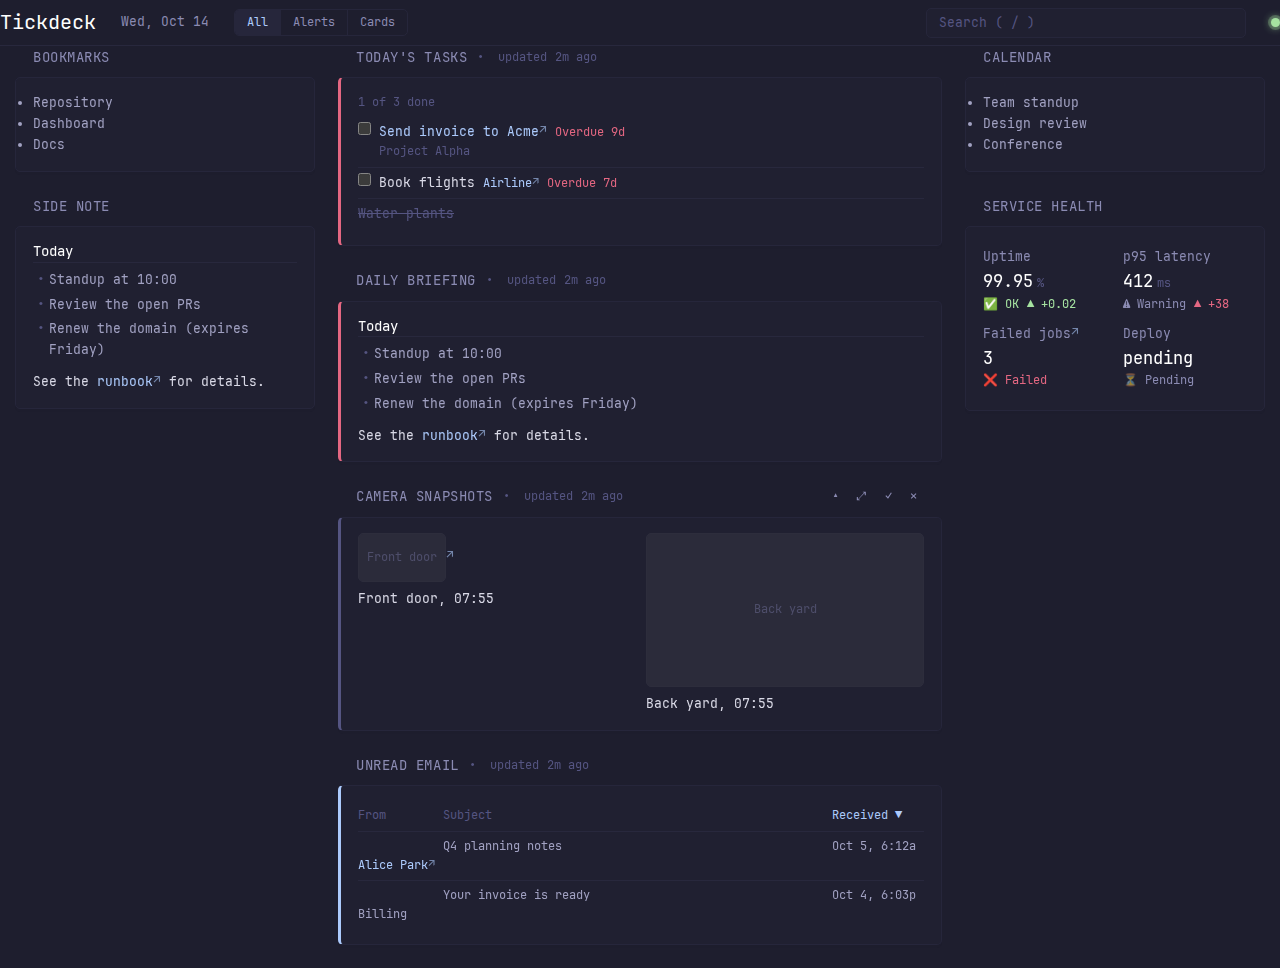
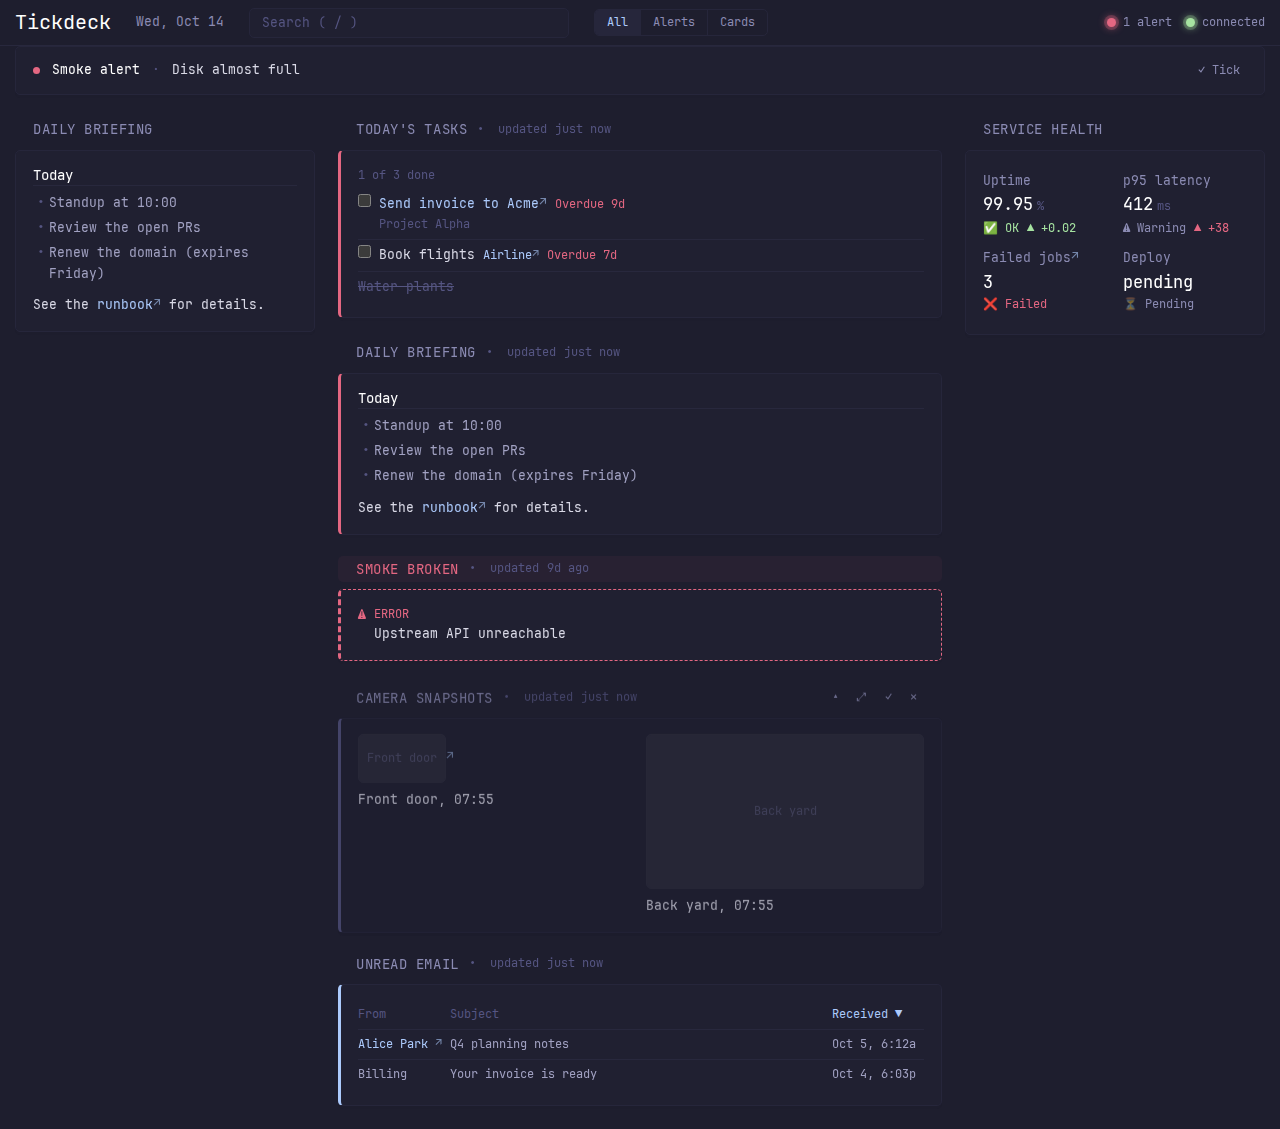
03-visual-port: post-review fixes — header padding/layout, table cell alignment and truncation

diff --git a/tests/smoke/smoke.spec.ts b/tests/smoke/smoke.spec.ts
@@ -224,6 +224,64 @@ test.describe('populated feed', () => {
     expect(left).toBeLessThan(right);
   });
 
+  test('header has page padding and fits the viewport at 1280 (post-review)', async ({ page }) => {
+    await page.setViewportSize({ width: 1280, height: 900 });
+    await page.goto(h!.server.url);
+    const brand = (await page.locator('.header__brand').boundingBox())!;
+    expect(brand.x).toBeGreaterThanOrEqual(12);
+    const dot = (await page.getByRole('img', { name: 'Connected' }).boundingBox())!;
+    expect(dot.x + dot.width).toBeLessThanOrEqual(1280 - 12);
+    await expect(page.locator('.header__status')).toContainText('connected');
+  });
+
+  test('header fits the viewport at 360 with a gutter (post-review)', async ({ page }) => {
+    await page.setViewportSize({ width: 360, height: 800 });
+    await page.goto(h!.server.url);
+    const boxes = await page.locator('.header, .header *').evaluateAll((els) =>
+      els.map((e) => {
+        const r = e.getBoundingClientRect();
+        return { cls: String(e.getAttribute('class') ?? ''), left: r.left, right: r.right, w: r.width };
+      }),
+    );
+    for (const b of boxes.filter((x) => x.w > 0 && !/^header$/.test(String(x.cls)))) {
+      expect(b.left, String(b.cls)).toBeGreaterThanOrEqual(0);
+      expect(b.right, String(b.cls)).toBeLessThanOrEqual(360);
+    }
+    expect((await page.locator('.header__brand').boundingBox())!.x).toBeGreaterThanOrEqual(12);
+    expect((await page.locator('.search-box input').boundingBox())!.x).toBeGreaterThanOrEqual(12);
+  });
+
+  test('compact table: one-line truncating cells, aligned, wrap scrolls in-card (post-review)', async ({ page }) => {
+    for (const width of [1280, 360]) {
+      await page.setViewportSize({ width, height: 900 });
+      await page.goto(h!.server.url);
+      const expanders = page.getByRole('button', { name: /^Expand/ });
+      while (await expanders.count()) await expanders.first().click();
+      const card = page.locator('[data-card-id="table"]').first();
+      await expect(card.locator('.cell-truncate').first()).toHaveCSS('white-space', 'nowrap');
+      await expect(card.locator('.tbl-wrap')).toHaveCSS('overflow-x', 'auto');
+      const rows = await card.locator('tbody tr').evaluateAll((trs) =>
+        trs.map((tr) => [...tr.querySelectorAll('td')].map((td) => td.getBoundingClientRect().height)),
+      );
+      expect(rows.length).toBeGreaterThan(0);
+      for (const r of rows) expect(Math.max(...r) - Math.min(...r), `${width}`).toBeLessThan(2);
+      const links = card.locator('td a.card-link:not(.tbl-rowlink *)');
+      if (await links.count()) {
+        const cell = (await links.first().locator('xpath=ancestor::td').boundingBox())!;
+        const text = (await links.first().boundingBox())!;
+        expect(Math.abs(text.y + text.height / 2 - (cell.y + cell.height / 2))).toBeLessThan(4);
+      }
+      const box = (await card.locator('.tbl-wrap').boundingBox())!;
+      expect(box.x + box.width).toBeLessThanOrEqual(width);
+      const cardBox = (await card.boundingBox())!;
+      expect(box.x + box.width).toBeLessThanOrEqual(cardBox.x + cardBox.width + 1);
+      if (process.env['TICKDECK_SHOTS']) {
+        await page.evaluate('window.scrollTo(0, 0)');
+        await page.screenshot({ path: join(process.env['TICKDECK_SHOTS'], `app-${width}.png`), fullPage: true });
+      }
+    }
+  });
+
   test('reduced motion disables animation (R12)', async ({ page }) => {
     await page.emulateMedia({ reducedMotion: 'reduce' });
     await page.goto(h!.server.url);

diff --git a/ui/src/styles/site.css b/ui/src/styles/site.css
@@ -38,10 +38,12 @@ button, input { font: inherit; color: inherit; }
 .header {
   display: flex; align-items: center; gap: var(--header-gap);
   min-height: var(--header-height);
+  width: 100%; max-width: 160rem; margin: 0 auto;
+  padding: 0 var(--content-bounds-padding);
   border-bottom: 1px solid var(--color-separator);
   background: var(--color-background);
 }
-.header__brand { color: var(--color-text-highlight); font-size: 2rem; line-height: var(--header-height); }
+.header__brand { color: var(--color-text-highlight); font-size: 2rem; line-height: var(--header-height); white-space: nowrap; }
 .header__date { color: var(--color-text-base-muted); white-space: nowrap; }
 .header__btn, .header__badge, .search-box button, .hidden-popover__panel button {
   background: transparent; cursor: pointer;
@@ -51,10 +53,13 @@ button, input { font: inherit; color: inherit; }
 .header__btn:hover, .search-box button:hover, .hidden-popover__panel button:hover {
   background: var(--color-widget-background-highlight); color: var(--color-text-highlight);
 }
+.header__status { margin-left: auto; display: flex; align-items: center; gap: 1.4rem; font-size: var(--font-size-h5); color: var(--color-text-base-muted); white-space: nowrap; }
+.header__status-item { display: inline-flex; align-items: center; gap: 0.7rem; }
+.header__status .header__badge { display: inline-flex; align-items: center; gap: 0.7rem; border: 0; padding: 0; font-size: inherit; }
 .header__dot { display: inline-block; width: 0.9rem; height: 0.9rem; border-radius: 50%; flex: none; }
 .header__dot--ok { background: var(--color-positive); box-shadow: 0 0 0 3px color-mix(in srgb, var(--color-positive) 25%, transparent), 0 0 8px var(--color-positive); }
 .header__dot--bad { background: var(--color-negative); box-shadow: 0 0 0 3px color-mix(in srgb, var(--color-negative) 25%, transparent), 0 0 8px var(--color-negative); }
-.search-box { position: relative; flex: 1; max-width: 32rem; min-width: 0; margin-left: auto; display: flex; align-items: center; gap: 0.8rem; }
+.search-box { position: relative; flex: 1; max-width: 32rem; min-width: 0; display: flex; align-items: center; gap: 0.8rem; }
 .search-box input {
   flex: 1; min-width: 0; height: 3rem; padding: 0 1.2rem;
   background: var(--color-widget-background); color: var(--color-text-paragraph);

diff --git a/ui/src/zones/Header.tsx b/ui/src/zones/Header.tsx
@@ -26,18 +26,9 @@ export function Header(p: HeaderProps) {
     <header className="header">
       <h1 className="header__brand">Tickdeck</h1>
       <span className="header__date">{date}</span>
-      {!p.minimal && p.alertCount > 0 ? (
-        <button
-          type="button"
-          className="header__badge"
-          aria-label={`${p.alertCount} ${p.alertCount === 1 ? 'alert' : 'alerts'}`}
-          onClick={scrollToNow}
-        >
-          {p.alertCount}
-        </button>
-      ) : null}
       {p.minimal ? null : (
         <>
+          <SearchBox {...p.search} />
           <div role="radiogroup" aria-label="Show" className="filter">
             {FILTERS.map((f) => (
               <button
@@ -69,15 +60,30 @@ export function Header(p: HeaderProps) {
               </button>
             ))}
           </div>
-          <SearchBox {...p.search} />
           <HiddenPopover cards={p.hidden} onUnhide={p.onUnhide} />
         </>
       )}
-      <span
-        role="img"
-        aria-label={p.connectionOk ? 'Connected' : 'Connection problem'}
-        className={`header__dot header__dot--${p.connectionOk ? 'ok' : 'bad'}`}
-      />
+      <div className="header__status">
+        {!p.minimal && p.alertCount > 0 ? (
+          <button
+            type="button"
+            className="header__badge"
+            aria-label={`${p.alertCount} ${p.alertCount === 1 ? 'alert' : 'alerts'}`}
+            onClick={scrollToNow}
+          >
+            <span className="header__dot header__dot--bad" aria-hidden="true" />
+            <span aria-hidden="true">{`${p.alertCount} ${p.alertCount === 1 ? 'alert' : 'alerts'}`}</span>
+          </button>
+        ) : null}
+        <span className="header__status-item">
+          <span
+            role="img"
+            aria-label={p.connectionOk ? 'Connected' : 'Connection problem'}
+            className={`header__dot header__dot--${p.connectionOk ? 'ok' : 'bad'}`}
+          />
+          <span aria-hidden="true">{p.connectionOk ? 'connected' : 'offline'}</span>
+        </span>
+      </div>
     </header>
   );
 }

diff --git a/ui/src/styles/types/table.css b/ui/src/styles/types/table.css
@@ -15,7 +15,8 @@
 .tbl-wrap { overflow-x: auto; max-width: 100%; }
 .tbl { width: 100%; table-layout: auto; border-collapse: collapse; font-size: var(--font-size-h5); }
 .tbl--compact { table-layout: auto; }
-.tbl th, .tbl td { padding: 0.5rem 0.8rem 0.5rem 0; text-align: left; vertical-align: top; border-top: 1px solid var(--color-separator); max-width: var(--tbl-auto-max); }
+.tbl--compact td { white-space: nowrap; }
+.tbl th, .tbl td { padding: 0.5rem 0.8rem 0.5rem 0; text-align: left; vertical-align: middle; border-top: 1px solid var(--color-separator); max-width: var(--tbl-auto-max); }
 .tbl thead th { position: sticky; top: 0; z-index: 2; background: var(--color-widget-background); color: var(--color-text-subdue); border-top: 0; border-bottom: 1px solid var(--color-separator); font-weight: 400; }
 .tbl thead th[aria-sort] { color: var(--color-primary); }
 .tbl td { color: var(--color-text-base); }
@@ -26,6 +27,7 @@
 .tbl-row { position: relative; }
 .tbl-row--link { cursor: pointer; }
 .tbl-row--link:hover td, .tbl tbody tr:hover td { background: var(--color-widget-background-highlight); color: var(--color-text-highlight); }
+.tbl-rowlink, .tbl-rowlink a.card-link { display: block; height: 0; line-height: 0; overflow: visible; }
 .tbl-rowlink a.card-link::after { content: ''; position: absolute; inset: 0; z-index: 0; }
 .tbl-rowlink a.card-link:focus-visible { outline: none; }
 .tbl-row--link:has(.tbl-rowlink a:focus-visible) { outline: 1px solid var(--color-primary); outline-offset: -1px; }
@@ -57,4 +59,7 @@
 .col-w-fill { width: 100%; min-width: 10rem; max-width: 0; }
 
 /* truncating cell body: functional clipping properties must be kept */
+.cell-truncate a.card-link { display: block; max-width: 100%; }
+.cell-truncate .tbl-cell-link { display: block; overflow: hidden; text-overflow: ellipsis; }
+.cell-truncate .card-link__text { display: inline; -webkit-line-clamp: unset; line-clamp: unset; }
 .cell-truncate { display: block; overflow: hidden; text-overflow: ellipsis; white-space: nowrap; }

diff --git a/ui/src/styles/mobile.css b/ui/src/styles/mobile.css
@@ -19,8 +19,10 @@
   .column--empty { display: none; }
   .header { flex-wrap: wrap; gap: 1rem 1.5rem; padding-bottom: 1rem; }
   .header__brand { order: 1; }
+  .header__status { order: 2; }
   .header__date { order: 3; flex: 1 1 100%; }
   .search-box { order: 4; flex: 1 1 100%; max-width: none; margin-left: 0; }
+  .filter { order: 5; }
   .alert-strip__row { flex-wrap: wrap; }
   .alert-strip__title { max-width: 100%; }
   .alert-strip__body { flex: 1 1 100%; white-space: normal; }
